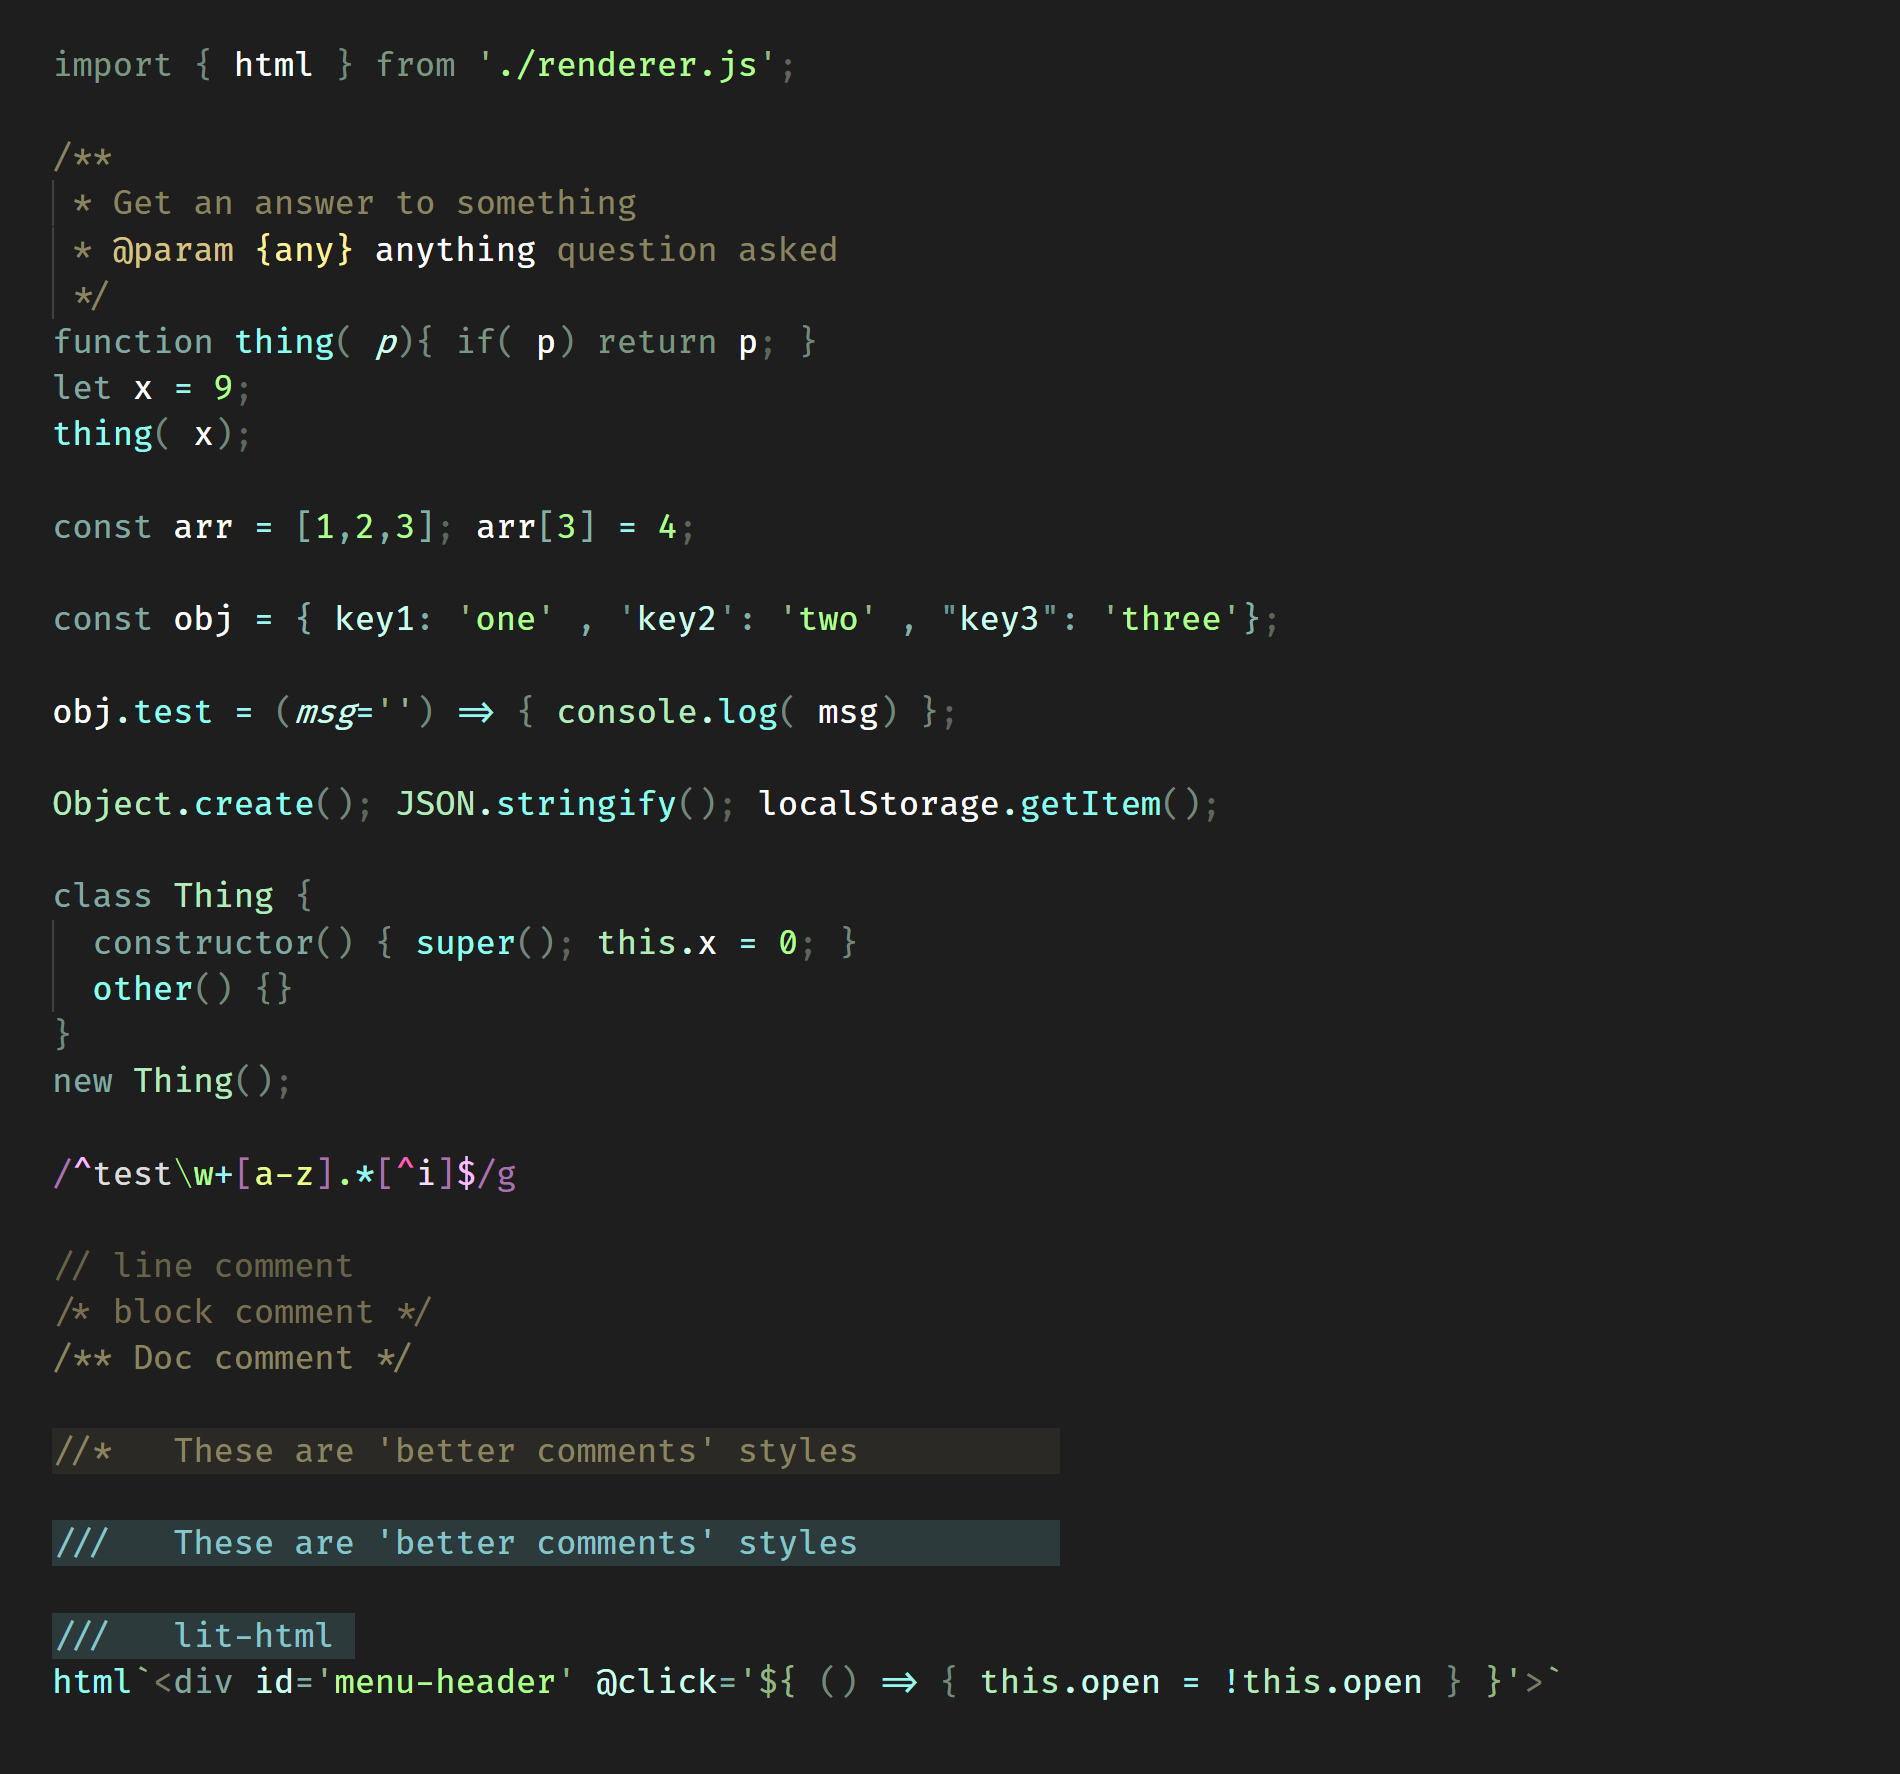
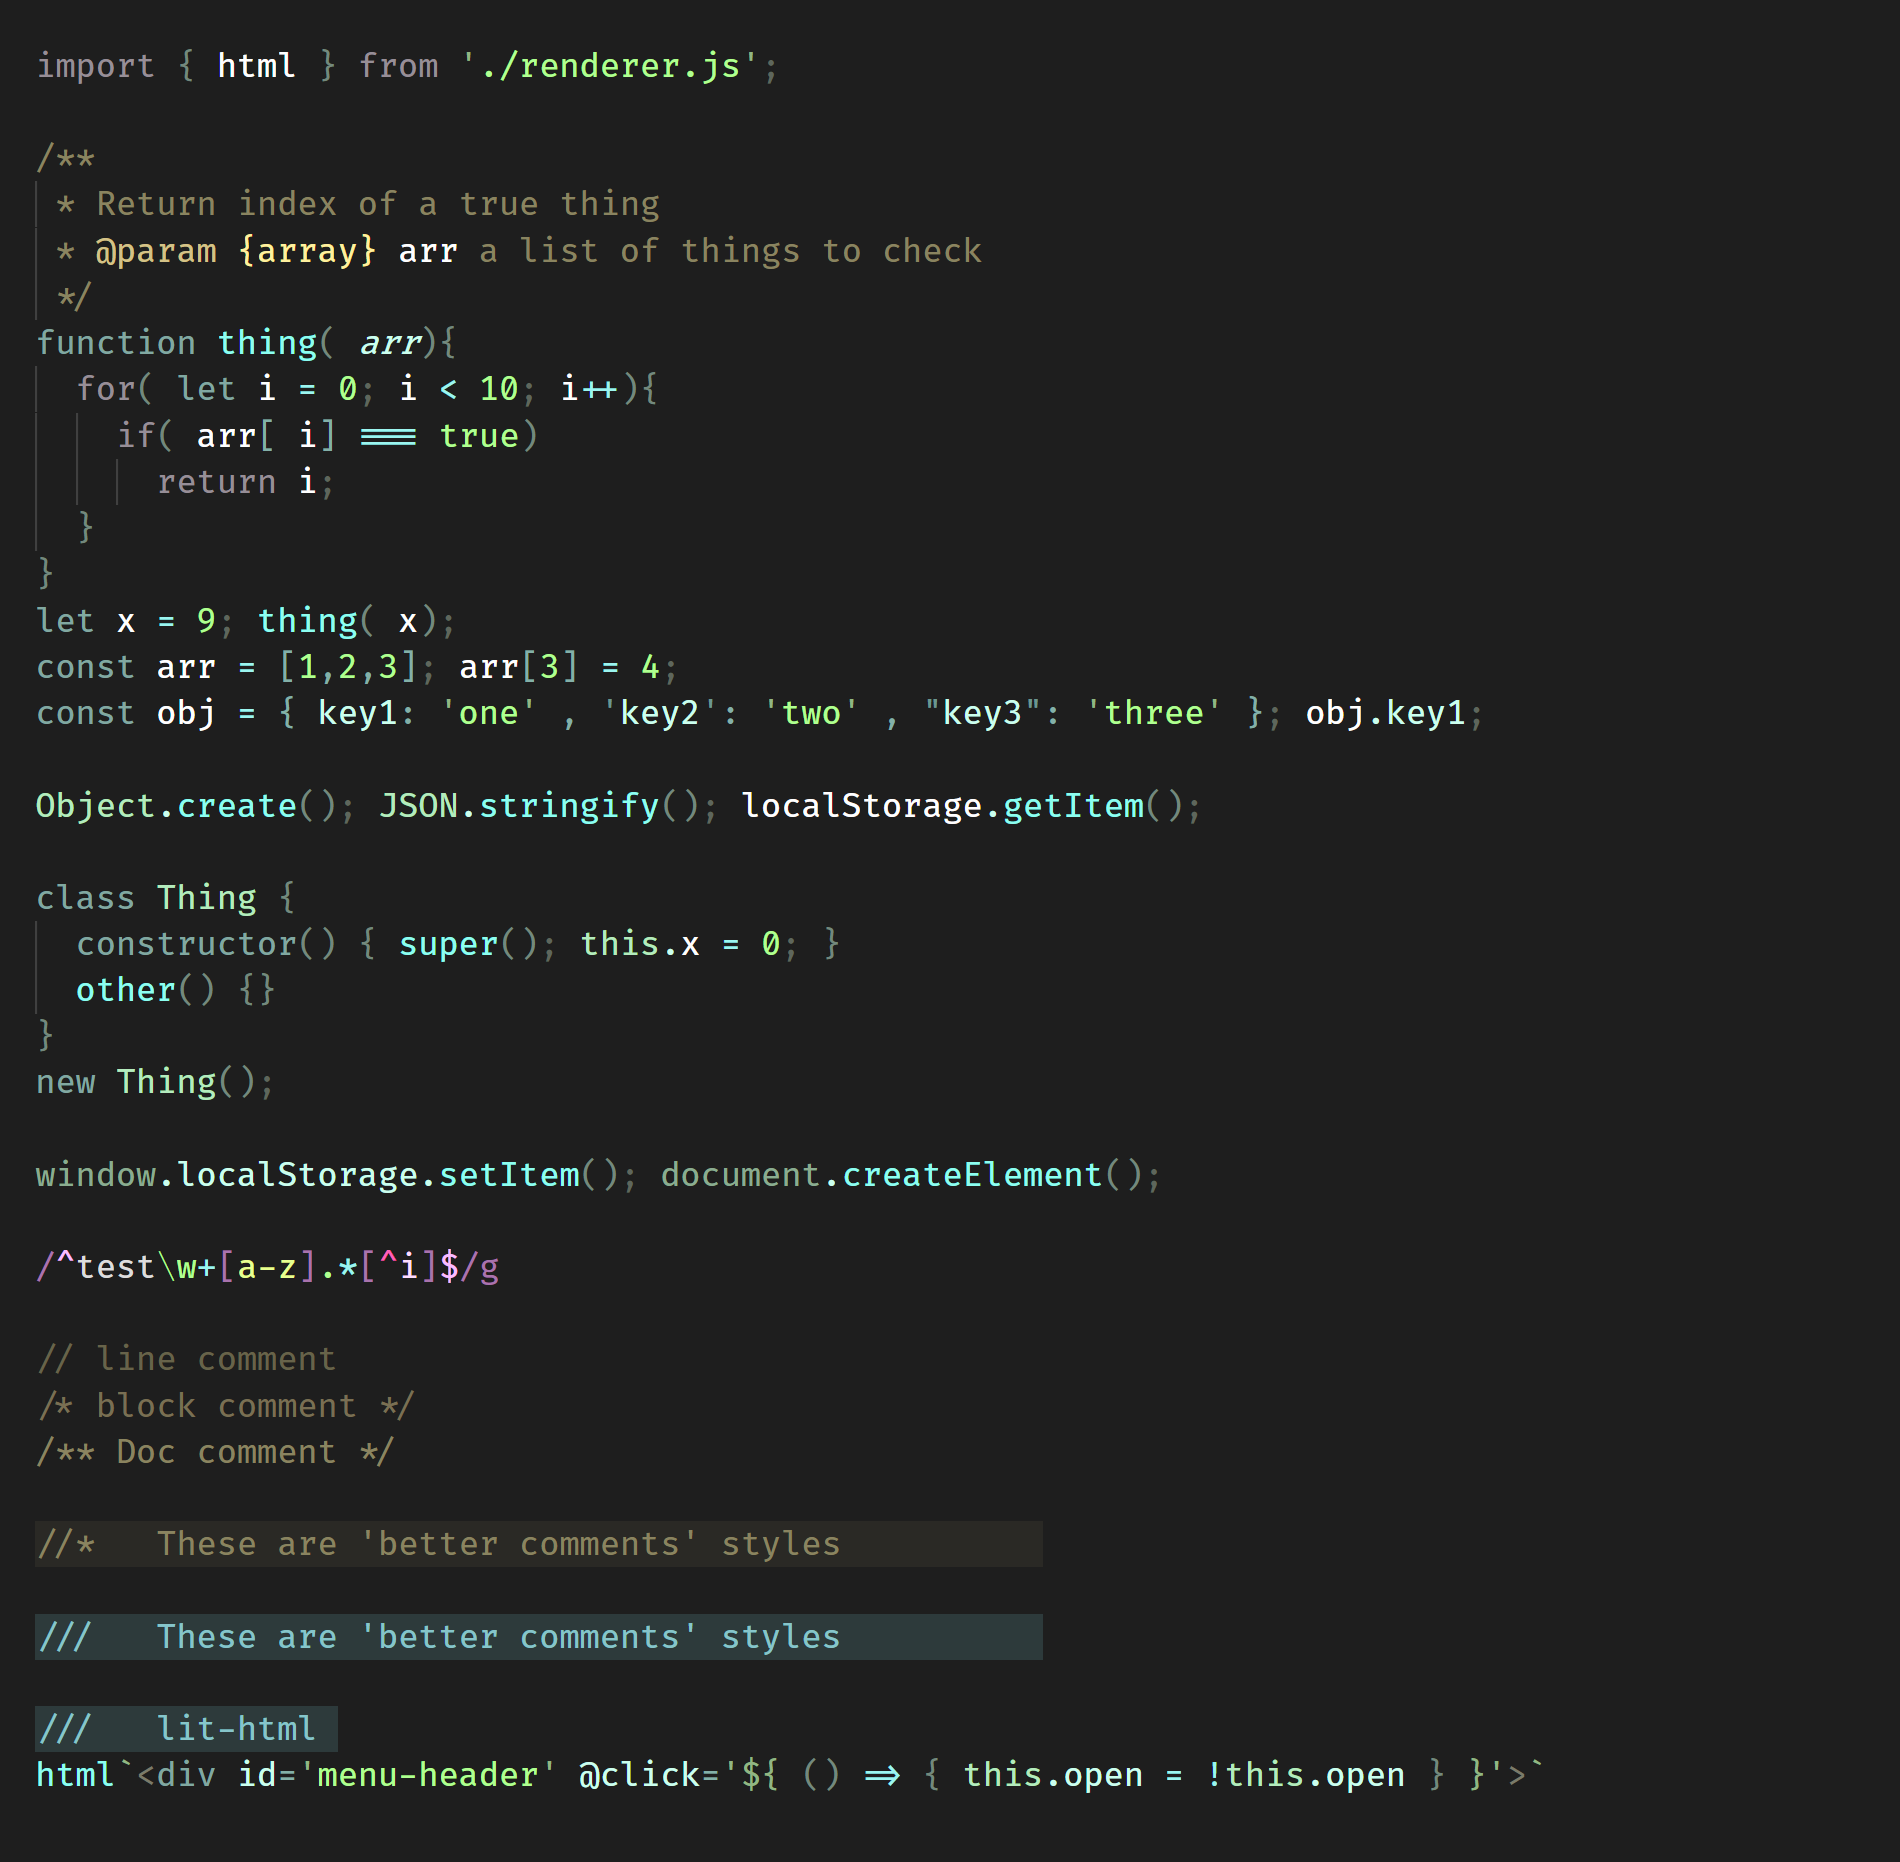
v1.2

diff --git a/syntax-demos/js.js b/syntax-demos/js.js
@@ -2,29 +2,28 @@
 import { html } from './renderer.js';
 
 /**
- * Get an answer to something
- * @param {any} anything question asked
+ * Return index of a true thing
+ * @param {array} arr a list of things to check
  */
-function thing( p){ if( p) return p; }
-let x = 9;
-thing( x);
-var abc = 'abc'
-abc.charAt(0)
-window.localStorage
-document.createAttribute()
+function thing( arr){
+	for( let i = 0; i < 10; i++){
+		if( arr[ i] === true) 
+			return i;
+	}
+}
+let x = 9; thing( x);
 const arr = [1,2,3]; arr[3] = 4;
+const obj = { key1: 'one' , 'key2': 'two' , "key3": 'three' }; obj.key1;
 
-const obj = { key1: 'one' , 'key2': 'two' , "key3": 'three'};
-
-obj.test = (msg='') => { console.log( msg) }; 
-
-Object.create(); JSON.stringify(); window.localStorage.getItem();
+Object.create(); JSON.stringify(); localStorage.getItem();
 
 class Thing { 
 	constructor() { super(); this.x = 0; } 
 	other() {} 
 }
 new Thing();
+
+window.localStorage.setItem(); document.createElement();
 
 /^test\w+[a-z].*[^i]$/g
 
@@ -42,6 +41,20 @@ html`<div id='menu-header' @click='${ () => { this.open = !this.open } }'>`
 
 
 
+import { html } from './renderer.js';
+
+/**
+ * Get an answer to something
+ * @param {any} anything question asked
+ */
+function thing( p){ 
+	if( p){
+		for( let i=0; i<10; i++){
+
+		}
+	}
+	return p; 
+}
 
 
 

diff --git a/CHANGELOG.md b/CHANGELOG.md
@@ -1,12 +1,15 @@
 # Change Log
 
+## [1.2.0]
+	revert to dark purple for control flow
+	dark green for top-level vars (window and document)
+
 ## [1.1.0]
-	purple top-0level vars: window and document
+	purple top-level vars (window and document)
 
 ## [1.0.0]
 	light green for support function/class (JSON, console etc.)
 	dark green for control flow 
-
 
 ## [0.8.0]
 	adjustments for comments and semi-colon colors
